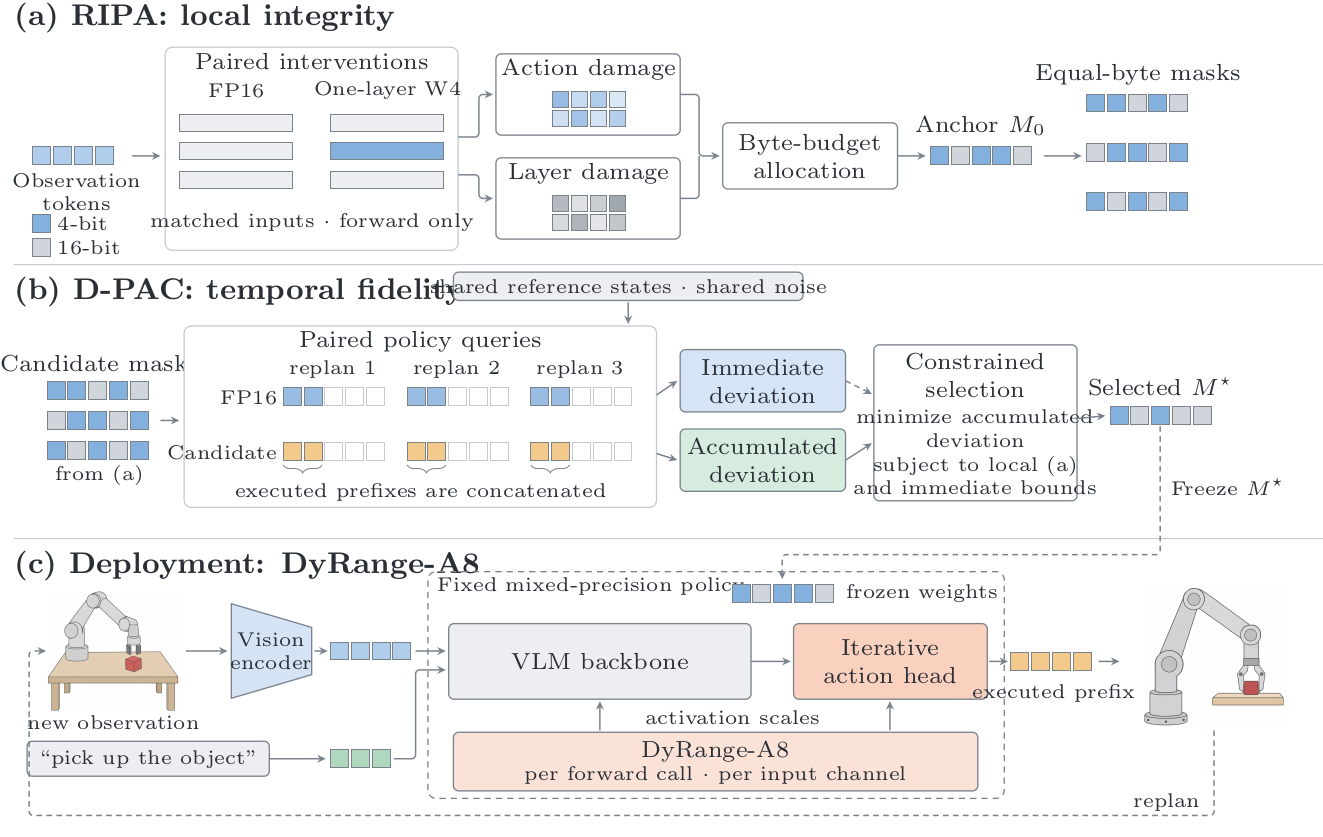
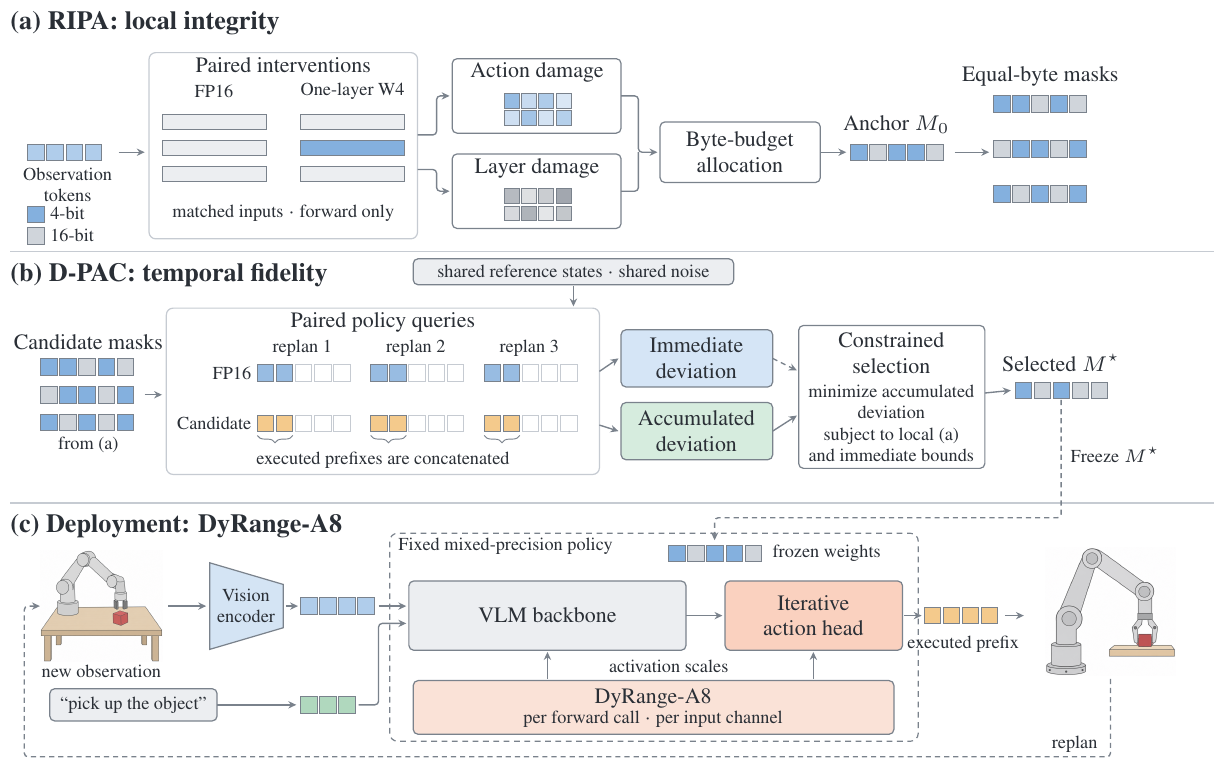
Rebuild pipeline figure with manuscript fonts and drop dropped operating-point figure

diff --git a/README.md b/README.md
@@ -121,11 +121,6 @@ The pi0.5 selected plan reaches 27.7% success at 2.70x Linear-component compress
 26.2% for FP16. GR00T N1.5 reaches 54.0% at 2.22x, compared with 55.1% for FP16. These are measured
 operating points, not guarantees for other hardware, models, or tasks.
 
-![RoboCasa365 operating points](figures/operating_points.png)
-
-*Measured GR00T N1.5 success-storage operating points under one matched Linear-component accounting
-scope. The dashed segment connects displayed non-dominated points and is not an interpolation.*
-
 ### Deployment evidence
 
 On an idle NVIDIA A40 at batch size one, the evaluated masks reduce peak CUDA allocation from
